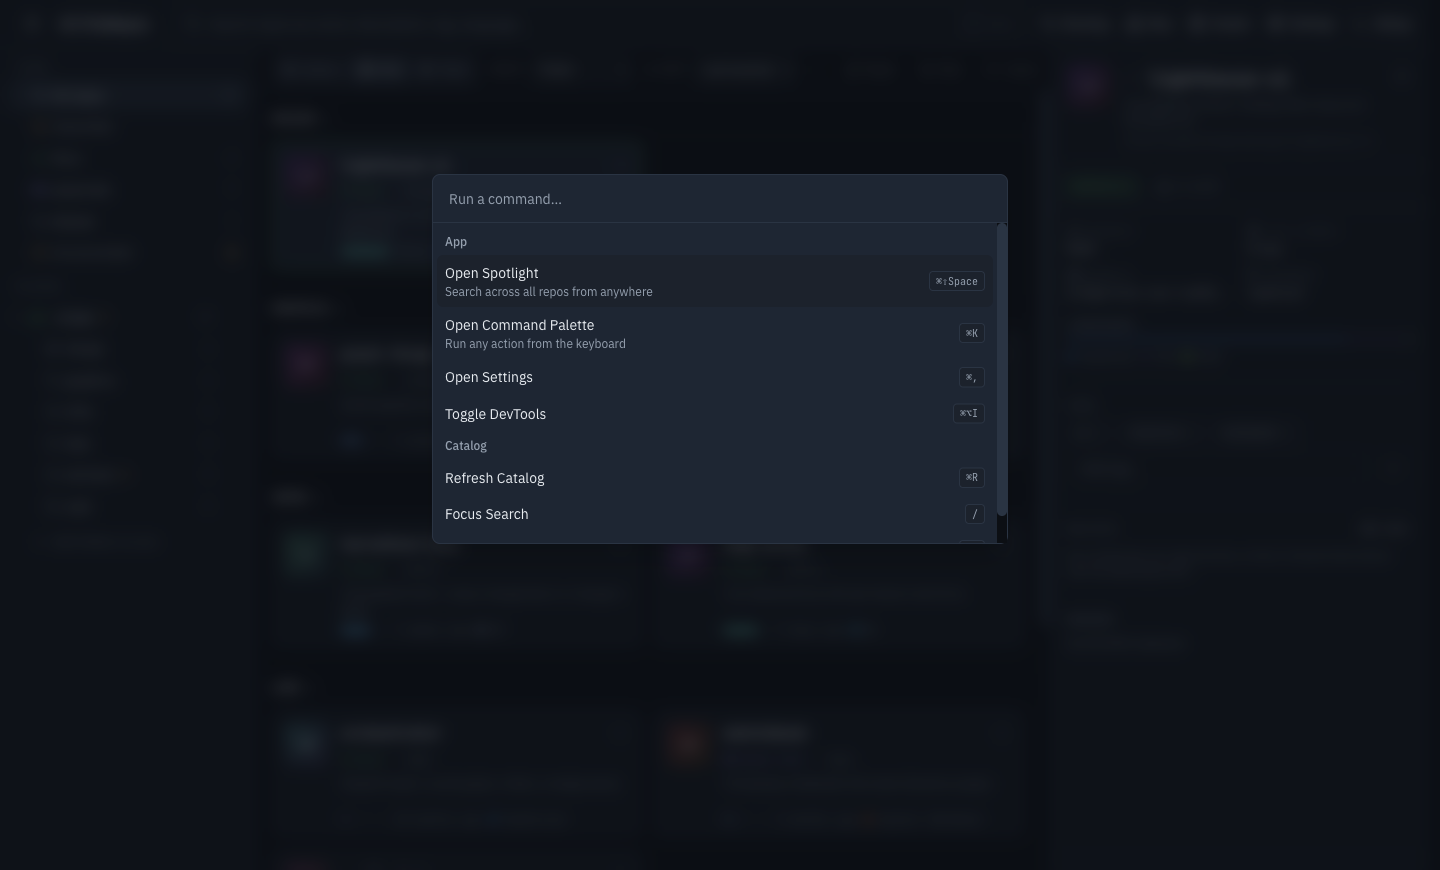
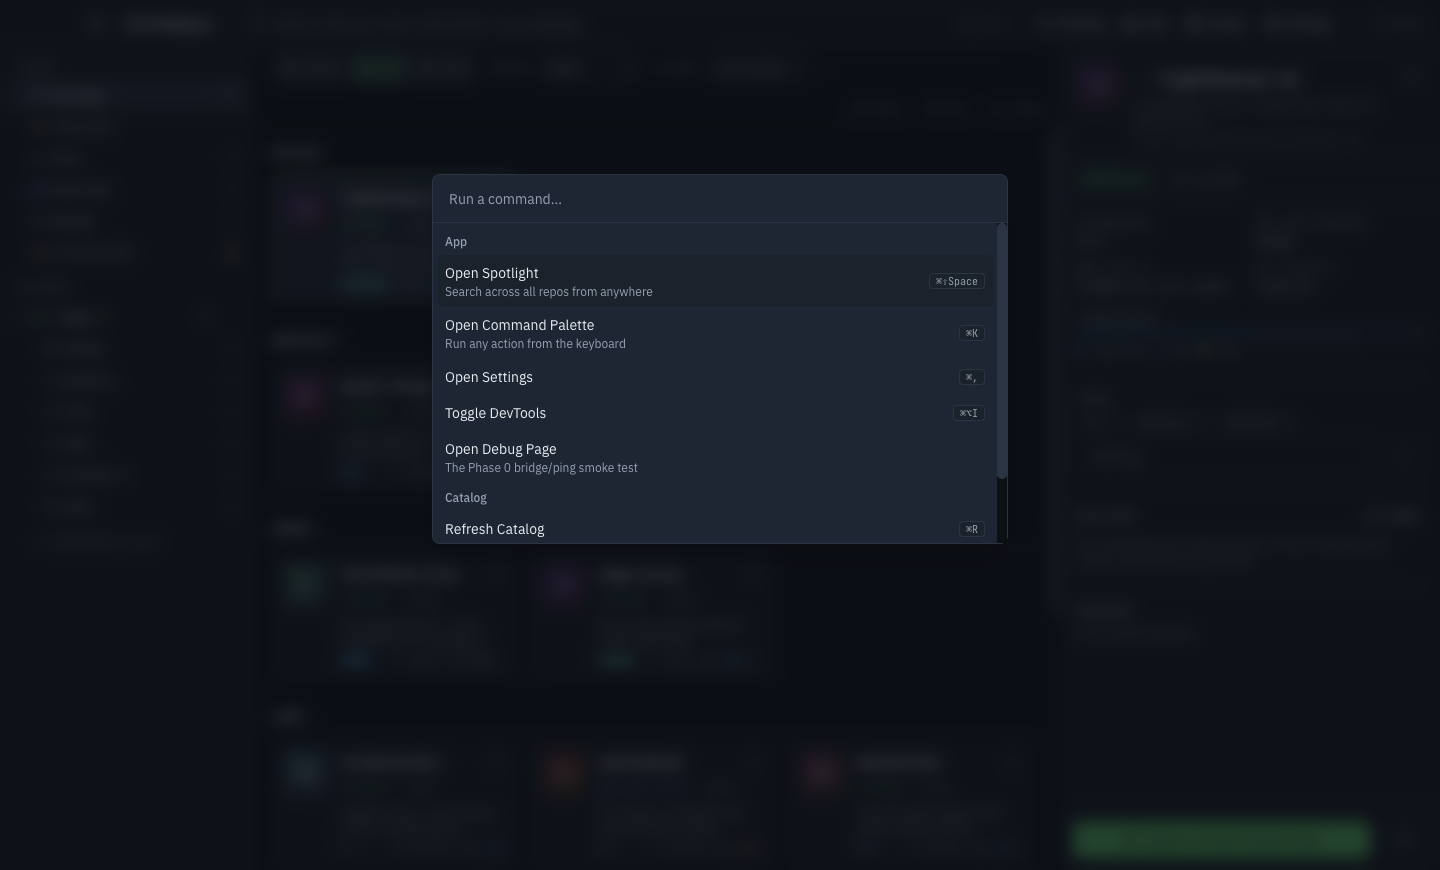
docs: refresh README screenshots and link the demo video
The screenshots are regenerated from the current build against the demo
library, and the README now links the demo video from The App section.

🤖 Generated with Codebuff

Changed region(s): [[0.75, 0.931, 0.9688, 0.9931], [0.3125, 0.4655, 0.4375, 0.6207], [0.6875, 0.5586, 0.7188, 0.5897]]

diff --git a/README.md b/README.md
@@ -91,6 +91,8 @@ pnpm electron:dev                  # rebuilds natives, then launches the app
 
 ## 🖥 The App
 
+▶ **[Watch the demo video (about 90 seconds)](https://github.com/ivy00johns/alltherepos-releases/releases/latest)** — the scan, search, triage, links and graph, shown on the demo library below.
+
 <div align="center">
 
 <img src="docs/images/command-palette.png" alt="The ⌘K command palette over the catalog" width="900" />
